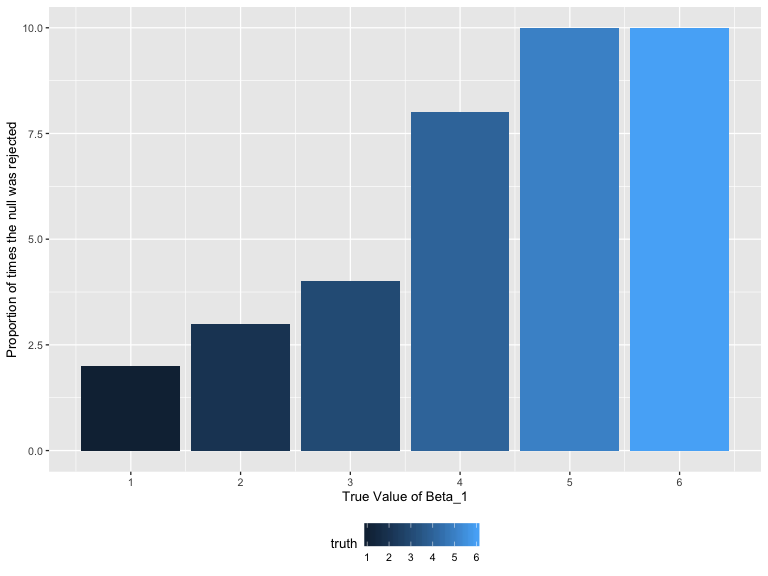
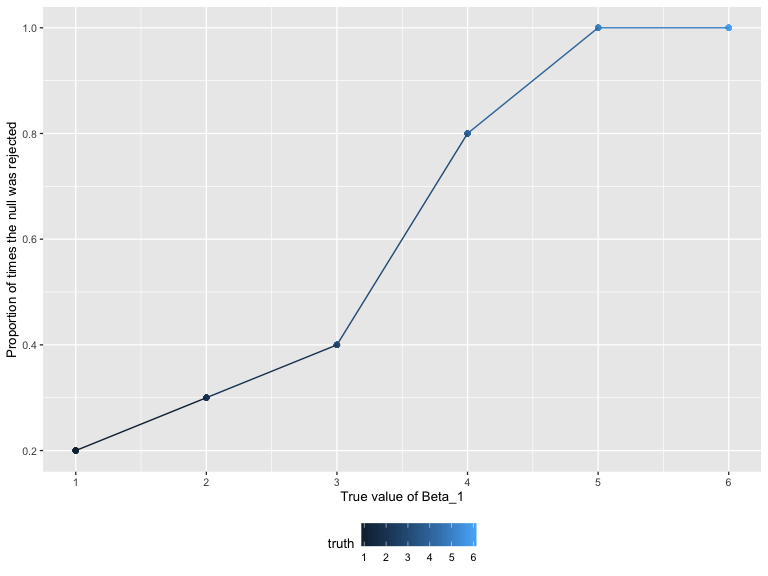
Update the answer of problem 3.

diff --git a/p8105_hw5_jc5314.md b/p8105_hw5_jc5314.md
@@ -124,13 +124,19 @@ distinctly larger than the control group after 6 weeks.
 
 ``` r
 generate_xy = function(beta_1, n, beta_0, sigma){
-  sim_data = tibble(
+  
+  tibble(
     x = rnorm(n),
     y = beta_0 + beta_1 * x + rnorm(n, 0, sigma)
   )
-  return(sim_data)
+  
 }
 ```
+
+Firstly, a function called `generate_xy` is created. This function will
+generate *n* pairs of (*x*, *y*), where *x*’s are random numbers
+following Normal distribution and *y*’s come from the given model in the
+question.
 
 ``` r
 generate_df = function(beta_1, generate_xy, n = 30, beta_0 = 2, sigma = sqrt(50)){
@@ -148,11 +154,45 @@ generate_df = function(beta_1, generate_xy, n = 30, beta_0 = 2, sigma = sqrt(50)
 }
 ```
 
+Next, another function called `generate_df` is created. This function
+will generate 10000 datasets which contain 30 pairs of (*x*, *y*) in
+each. Then the generated *x* and *y* will be fitted to linear regression
+model and estimators of
+![\\beta\_1](https://latex.codecogs.com/png.latex?%5Cbeta_1 "\\beta_1")
+as well as p-values will be obtained. The estimators and p-values will
+be extracted and included in the dataset.
+
+1)  When ![\\beta\_1](https://latex.codecogs.com/png.latex?%5Cbeta_1
+    "\\beta_1") = 0:
+
+<!-- end list -->
+
 ``` r
 set.seed(1)
 
 df_1 = generate_df(beta_1 = 0, generate_xy)
+
+df_1
 ```
+
+    ## # A tibble: 10 x 4
+    ##    truth data              estimate p_value
+    ##    <dbl> <list>               <dbl>   <dbl>
+    ##  1     0 <tibble [30 × 2]>  0.296     0.798
+    ##  2     0 <tibble [30 × 2]>  0.00648   0.996
+    ##  3     0 <tibble [30 × 2]> -2.16      0.155
+    ##  4     0 <tibble [30 × 2]> -0.454     0.718
+    ##  5     0 <tibble [30 × 2]> -0.514     0.730
+    ##  6     0 <tibble [30 × 2]>  1.71      0.243
+    ##  7     0 <tibble [30 × 2]> -1.18      0.322
+    ##  8     0 <tibble [30 × 2]>  1.09      0.366
+    ##  9     0 <tibble [30 × 2]>  0.806     0.377
+    ## 10     0 <tibble [30 × 2]>  2.35      0.131
+
+2)  When ![\\beta\_1](https://latex.codecogs.com/png.latex?%5Cbeta_1
+    "\\beta_1") = {1, 2, 3, 4, 5, 6}:
+
+<!-- end list -->
 
 ``` r
 beta_1 = list(1, 2, 3, 4, 5, 6)
@@ -160,11 +200,29 @@ beta_1 = list(1, 2, 3, 4, 5, 6)
 df_2 = 
   map(beta_1, ~ generate_df(.x, generate_xy)) %>% 
   bind_rows()
+
+df_2
 ```
 
+    ## # A tibble: 60 x 4
+    ##    truth data              estimate p_value
+    ##    <dbl> <list>               <dbl>   <dbl>
+    ##  1     1 <tibble [30 × 2]>   2.72    0.0317
+    ##  2     1 <tibble [30 × 2]>   3.67    0.0209
+    ##  3     1 <tibble [30 × 2]>   2.54    0.0625
+    ##  4     1 <tibble [30 × 2]>   0.0787  0.960 
+    ##  5     1 <tibble [30 × 2]>   0.150   0.886 
+    ##  6     1 <tibble [30 × 2]>   0.0752  0.959 
+    ##  7     1 <tibble [30 × 2]>   1.07    0.338 
+    ##  8     1 <tibble [30 × 2]>  -0.940   0.630 
+    ##  9     1 <tibble [30 × 2]>   1.51    0.310 
+    ## 10     1 <tibble [30 × 2]>   1.77    0.241 
+    ## # … with 50 more rows
+
   - A plot showing the proportion of times the null was rejected (the
-    power of the test) on the \(y\) axis and the true value of
-    \(\beta_1\) on the \(x\) axis.
+    power of the test) on the *y* axis and the true value of
+    ![\\beta\_1](https://latex.codecogs.com/png.latex?%5Cbeta_1
+    "\\beta_1") on the *x* axis.
 
 <!-- end list -->
 
@@ -174,9 +232,10 @@ df_2 %>%
   mutate(
     reject_prop = sum(p_value < 0.05) / length(p_value)
   ) %>% 
-  ggplot(aes(x = truth, y = reject_prop, fill = truth)) +
-  geom_col() + 
-  xlab("True Value of Beta_1") +
+  ggplot(aes(x = truth, y = reject_prop, color = truth)) +
+  geom_point() + 
+  geom_line() +
+  xlab("True value of Beta_1") +
   ylab("Proportion of times the null was rejected") +
   scale_x_continuous(
     breaks = c(1, 2, 3, 4, 5, 6)
@@ -185,10 +244,19 @@ df_2 %>%
 
 <img src="p8105_hw5_jc5314_files/figure-gfm/unnamed-chunk-11-1.png" width="90%" />
 
-*Comments: Describe the association between effect size and power.*
+*Comments:* Based on the plot, it can be seen that the power of the test
+was increased when the effect size increased. More specifically, the
+power was very small when the true value of
+![\\beta\_1](https://latex.codecogs.com/png.latex?%5Cbeta_1 "\\beta_1")
+was less than 2, and the power was large and closed to 1 when the true
+value of ![\\beta\_1](https://latex.codecogs.com/png.latex?%5Cbeta_1
+"\\beta_1") was greater than 5.
 
-  - Make a plot showing the average estimate of \(\hat{\beta_1}\) on the
-    \(y\) axis and the true value of \(\beta_1\) on the \(x\) axis.
+  - A plot showing the average estimate of
+    ![\\hat{\\beta\_1}](https://latex.codecogs.com/png.latex?%5Chat%7B%5Cbeta_1%7D
+    "\\hat{\\beta_1}") on the *y* axis and the true value of
+    ![\\beta\_1](https://latex.codecogs.com/png.latex?%5Cbeta_1
+    "\\beta_1") on the *x* axis:
 
 <!-- end list -->
 
@@ -197,8 +265,8 @@ df_2 %>%
   group_by(truth) %>% 
   summarize(mean_estimator = mean(estimate)) %>% 
   ggplot(aes(x = truth, y = mean_estimator, fill = truth)) +
-  geom_col() + 
-  xlab("True Value of Beta_1") +
+  geom_col() +
+  xlab("True value of Beta_1") +
   ylab("Average estimate of Beta_1") +
   scale_x_continuous(
     breaks = c(1, 2, 3, 4, 5, 6)
@@ -207,14 +275,23 @@ df_2 %>%
 
 <img src="p8105_hw5_jc5314_files/figure-gfm/unnamed-chunk-12-1.png" width="90%" />
 
+  - A plot showing the average estimate of
+    ![\\hat{\\beta\_1}](https://latex.codecogs.com/png.latex?%5Chat%7B%5Cbeta_1%7D
+    "\\hat{\\beta_1}") on the *y* axis and the true value of
+    ![\\beta\_1](https://latex.codecogs.com/png.latex?%5Cbeta_1
+    "\\beta_1") on the *x* axis only in samples for which the null was
+    rejected:
+
+<!-- end list -->
+
 ``` r
 df_2 %>% 
   filter(p_value < 0.05) %>% 
   group_by(truth) %>% 
   summarize(mean_estimator = mean(estimate)) %>% 
   ggplot(aes(x = truth, y = mean_estimator, fill = truth)) +
-  geom_col() + 
-  xlab("True Value of Beta_1") +
+  geom_col() +
+  xlab("True value of Beta_1") +
   ylab("Average estimate of Beta_1") +
   scale_x_continuous(
     breaks = c(1, 2, 3, 4, 5, 6)
@@ -222,3 +299,5 @@ df_2 %>%
 ```
 
 <img src="p8105_hw5_jc5314_files/figure-gfm/unnamed-chunk-13-1.png" width="90%" />
+
+*Comments:* Based on the plot,
